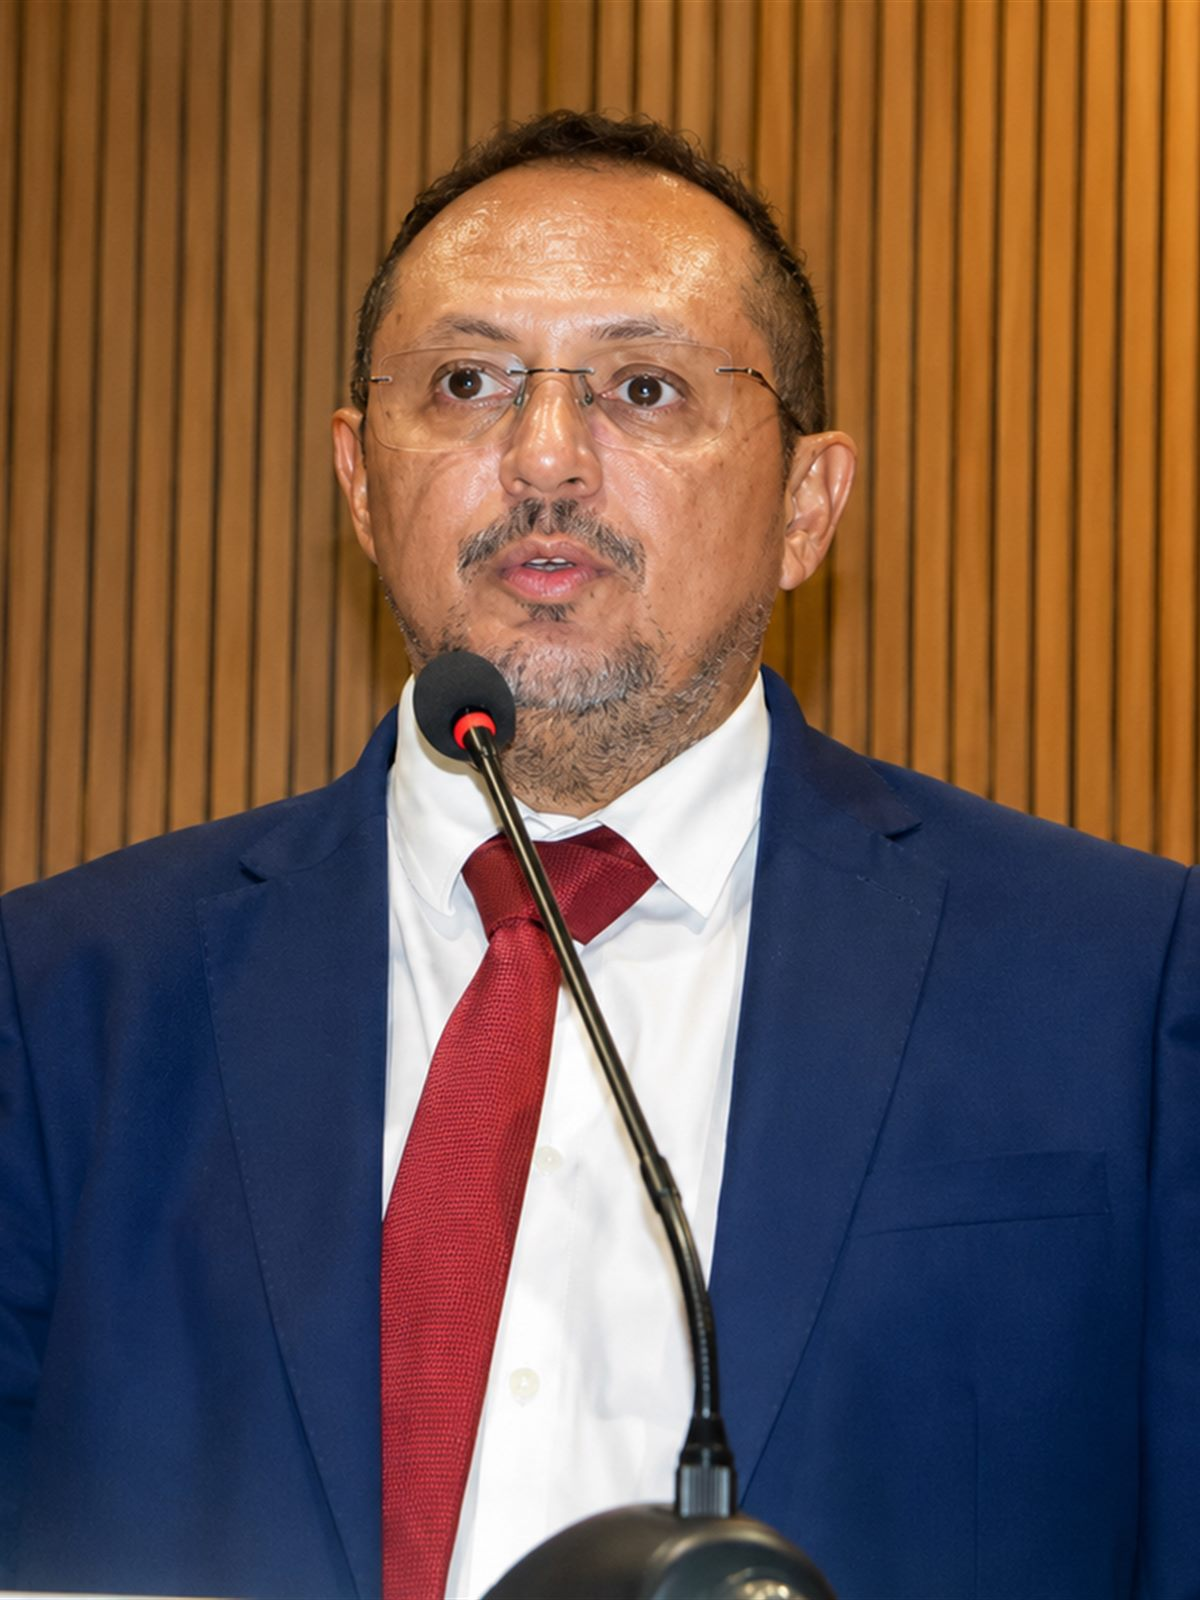
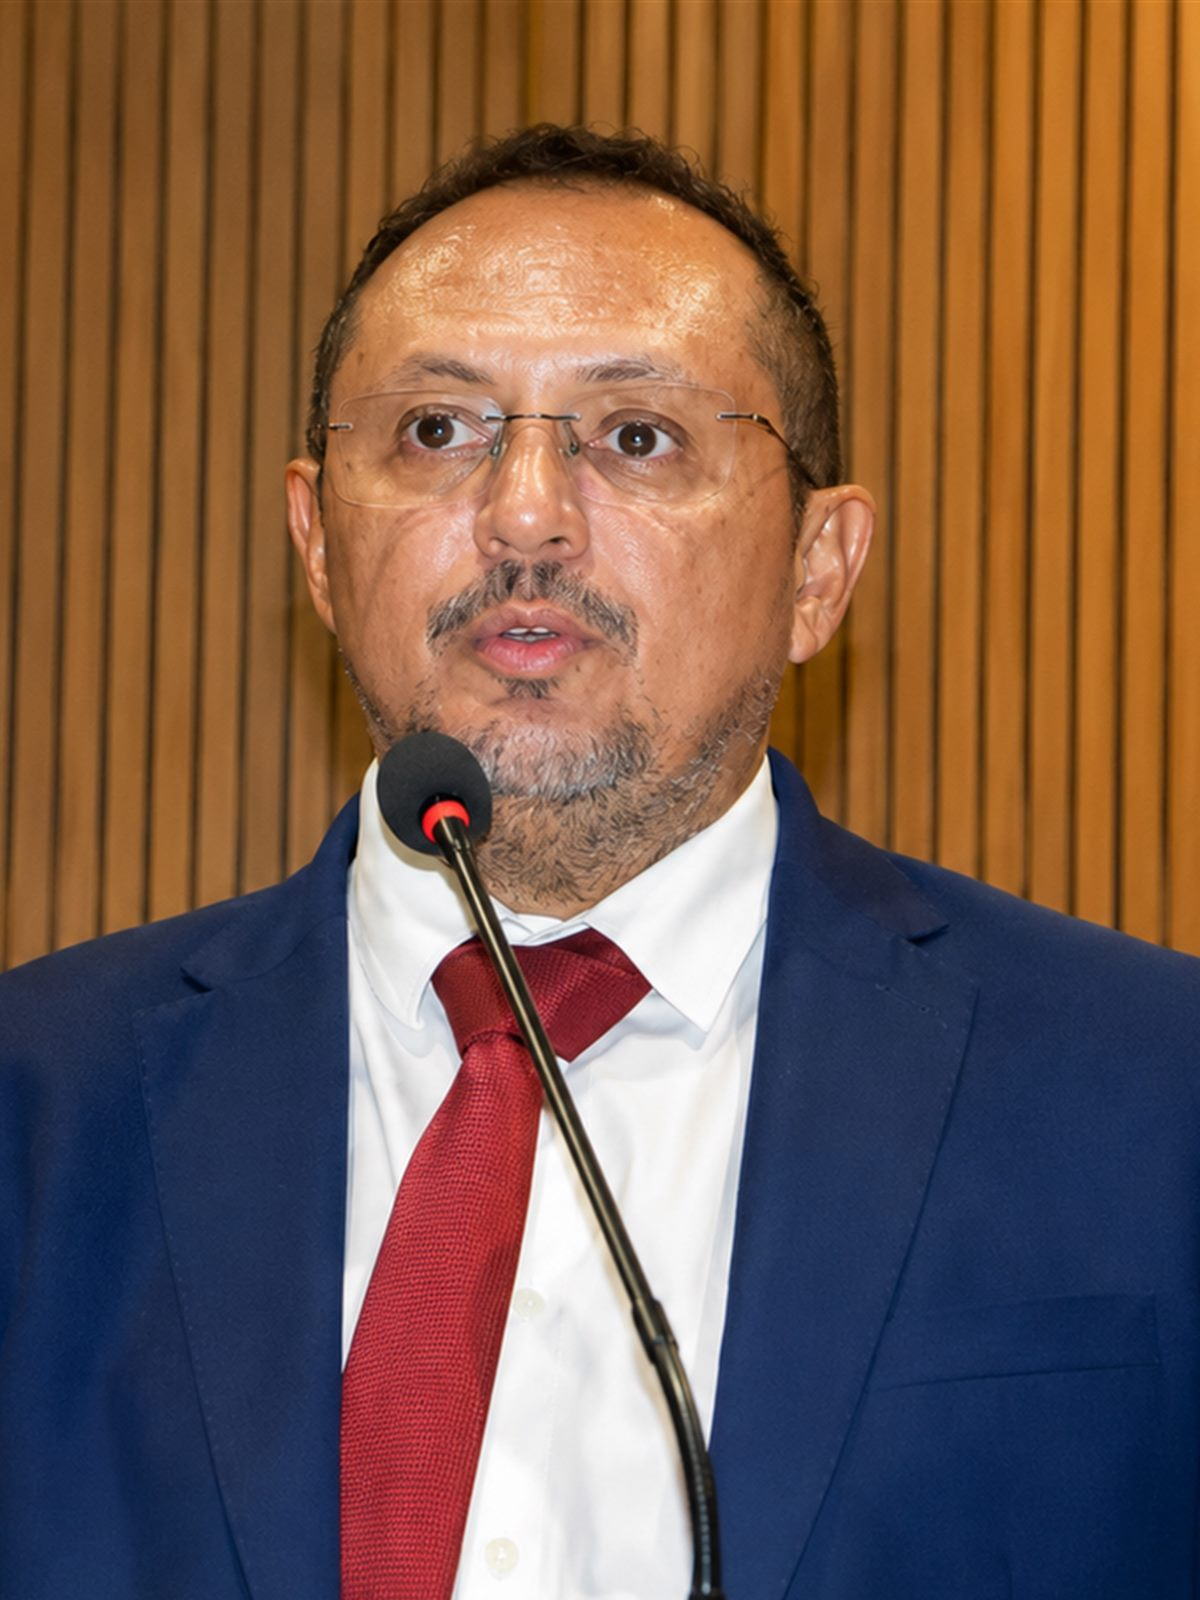
retrato composto, não pendurado: alinha, recorta e desatura
Medi antes de mexer, e o defeito era de composição: as duas colunas do topo
não compartilhavam nenhuma linha. O texto começava em y=416 e a foto em y=225 —
191px de desencontro, presos só pela base. Daí o ar de coisa encostada.

- As colunas agora fecham nas duas linhas: topo do retrato na altura do olho,
  base do retrato na base dos botões. A altura da faixa vem do retrato e o
  bloco de texto se distribui até ela (`margin-top:auto` na linha de apoio), em
  vez de encostar no topo e deixar vão morto embaixo.
- A legenda saiu do bloco alinhado e desceu para o respiro da seção — dentro
  dele, roubava altura da foto e desalinhava a base.
- foto.ps1 ganhou -Fundo: recorte de 11% na base tira a base do microfone, que
  entrava como um borrão preto no pé do enquadramento.
- Preto e branco por disciplina de paleta: a madeira do plenário entrava como
  bloco laranja saturado ocupando um terço da dobra, e a regra do projeto é
  vermelho em no máximo ~10%, resto em tinta, aço e papel. Em cinza, a única
  cor da dobra volta a ser o filete e o botão. Uma linha de CSS desfaz.

Conferido em 1280 e em 390 reais.

diff --git a/css/site.css b/css/site.css
@@ -29,38 +29,62 @@
  * arquivo não estiver no repositório. `1fr auto` cuida dos dois casos sem
  * precisar de classe condicional.
  */
+/* As duas colunas compartilham as duas linhas: o topo do retrato na altura do
+ * olho, a base do retrato na base dos botões. Antes o retrato ia do topo da
+ * seção até o rodapé do texto e o texto ficava colado embaixo — 191px de
+ * desencontro, e a foto parecia pendurada em vez de composta. */
 .hero__in {
   display: grid;
   grid-template-columns: 1fr auto;
-  gap: clamp(28px, 5vw, 72px);
-  align-items: end;
+  gap: clamp(28px, 5vw, 64px);
+  align-items: stretch;
 }
 /* Com o retrato ao lado, a coluna de texto encurta: o `max-width:16ch` e o
  * corpo de 92px do mockup, feitos para a largura inteira, passam a quebrar a
  * manchete no lugar errado. Aqui quem manda na quebra é o <br> da frase. */
+/* A altura da linha é dada pelo retrato. Sem isto o texto encosta no topo e
+ * sobra um vão morto embaixo: os quadros alinham, o conteúdo não. Com o
+ * `margin-top:auto`, os botões fecham na mesma base da foto e o ar fica onde
+ * ar de manchete deve ficar — entre o título e a linha de apoio. */
+.hero__txt { display: flex; flex-direction: column; }
 .hero__txt h1 { max-width: none; font-size: clamp(36px, 5.1vw, 66px); }
+.hero__txt .hero__pe { margin-top: auto; }
 
-.hero__retrato { margin: 0; }
+.hero__retrato {
+  position: relative;
+  margin: 0;
+  width: clamp(230px, 27vw, 340px);
+}
 .hero__retrato img {
   display: block;
-  width: clamp(240px, 30vw, 390px);
-  /* `height:auto` é obrigatório: o atributo height="1600" do HTML vale como
-     declaração de CSS e, com as duas dimensões fixas, o `aspect-ratio` é
-     ignorado — a imagem sairia com 380 de largura por 1600 de altura. */
-  height: auto;
-  aspect-ratio: 3 / 4;
+  width: 100%;
+  /* `height:auto` não serve aqui: o atributo height="1600" do HTML vale como
+     declaração de CSS, e é ele que precisa ser anulado. A altura vem da coluna
+     de texto — é o que faz as duas colunas fecharem na mesma linha. */
+  height: 100%;
   object-fit: cover;
-  object-position: 50% 22%;
-  border: 1px solid var(--linha);
+  /* o enquadramento fica no alto: corta a base do microfone, não a testa */
+  object-position: 50% 16%;
   background: var(--papel);
+  /* Preto e branco por disciplina de paleta, não por estilo: a madeira do
+   * plenário entra como um bloco laranja saturado do tamanho de um terço da
+   * dobra, e a regra do projeto é vermelho em no máximo ~10% da tela, com o
+   * resto em tinta, aço e papel. Em cinza, a única cor da dobra volta a ser o
+   * vermelho do filete e do botão — que é onde ela tem trabalho a fazer.
+   * Para voltar ao colorido: apagar esta linha. */
+  filter: grayscale(1) contrast(1.06) brightness(1.02);
 }
+/* A legenda sai do bloco alinhado e desce para o respiro da seção: se ela
+ * ocupasse altura dentro da coluna, roubaria da foto e desalinharia a base. */
 .hero__retrato figcaption {
-  margin-top: 10px;
+  position: absolute;
+  top: calc(100% + 10px);
+  left: 0;
+  width: 100%;
   font-size: 12px;
   letter-spacing: .06em;
   text-transform: uppercase;
   color: var(--aco);
-  max-width: 34ch;
 }
 
 /* Retrato provisório: a legenda não pode passar despercebida, mas também não
@@ -78,8 +102,10 @@
 
 @media (max-width: 900px) {
   .hero__in { grid-template-columns: 1fr; }
-  .hero__retrato { order: -1; }
-  .hero__retrato img { width: min(280px, 62vw); }
+  .hero__retrato { order: -1; width: min(300px, 66vw); }
+  .hero__retrato img { height: auto; aspect-ratio: 5 / 6; }
+  /* em coluna única não há base para alinhar: a legenda volta ao fluxo */
+  .hero__retrato figcaption { position: static; margin-top: 10px; }
 }
 
 /* entregas — resumo, filtro, fonte, vazio */
